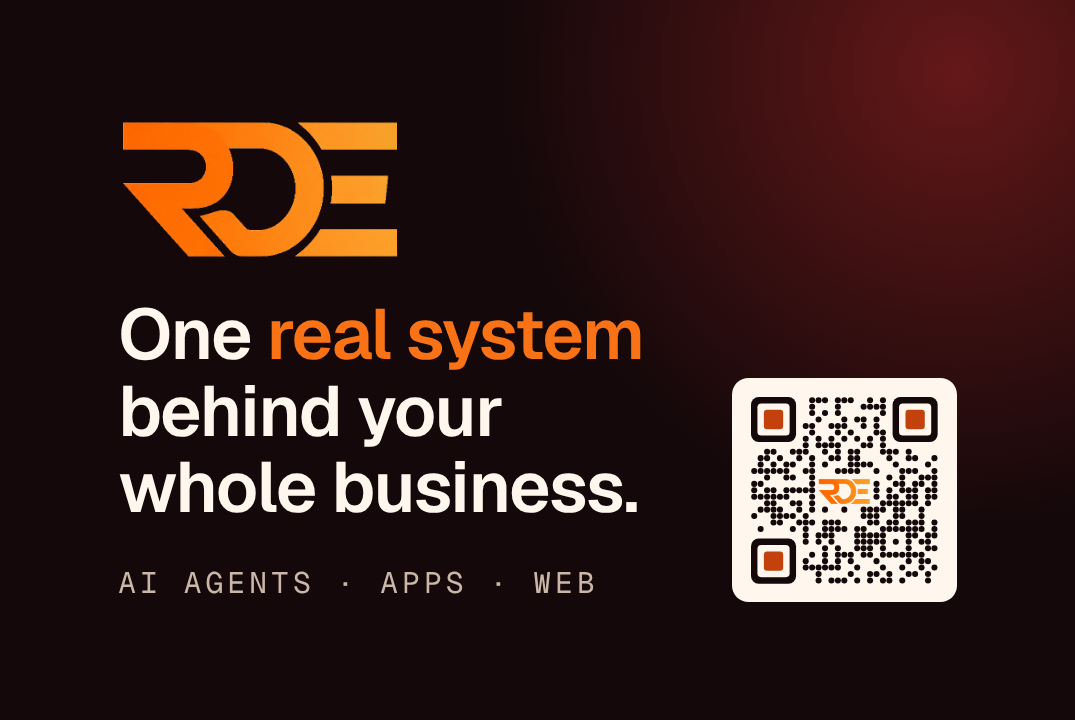
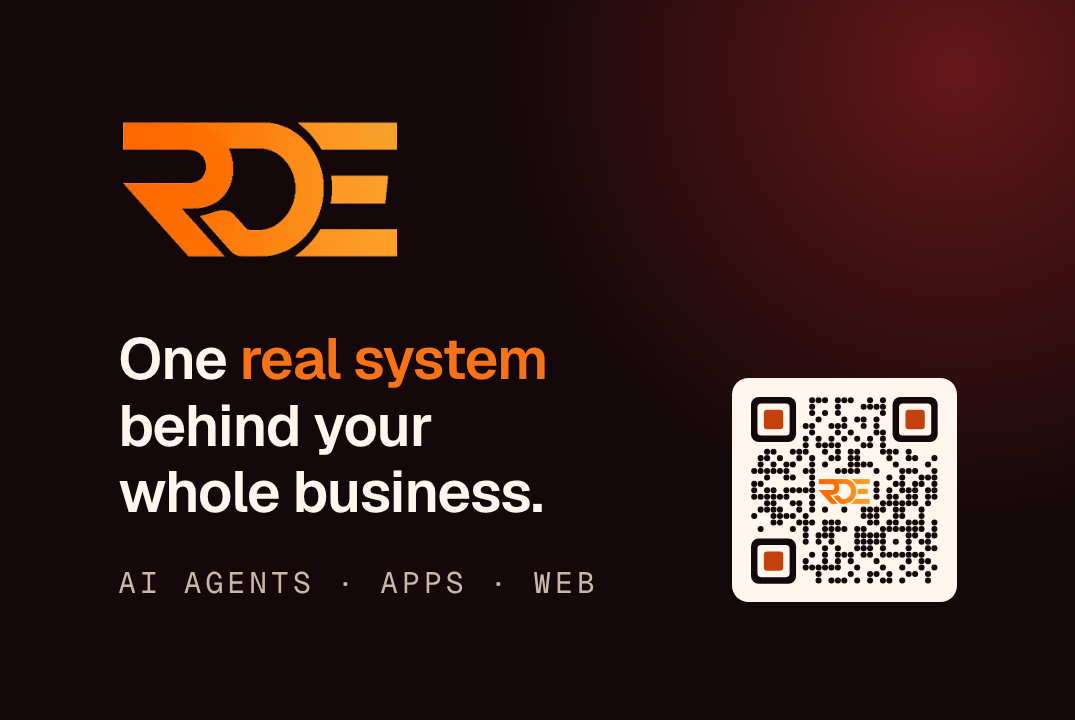
Business card: medium-size headline for better balance
Claude-Session: https://claude.ai/code/session_01B6fozEJdCLAGrKoXUG1e35

Changed region(s): [[0.0921, 0.4278, 0.614, 0.7333]]

diff --git a/business-card/_back-bleed.html b/business-card/_back-bleed.html
@@ -14,7 +14,7 @@ body{margin:0;background:var(--bg);color:var(--fg);font-family:var(--font)}
 .front::before{content:"";position:absolute;right:calc(-30 * var(--mm));top:calc(-34 * var(--mm));width:calc(80 * var(--mm));height:calc(80 * var(--mm));border-radius:50%;background:radial-gradient(circle,rgba(127,29,29,.75),rgba(127,29,29,0) 68%)}
 .front .mark{position:absolute;left:calc(7 * var(--mm));top:calc(7 * var(--mm));height:calc(12 * var(--mm));width:auto;display:block}
 .front .tag{position:absolute;left:calc(7 * var(--mm));bottom:calc(7 * var(--mm));right:calc(7 * var(--mm))}
-.front h2{margin:0;font-weight:600;font-size:calc(6 * var(--mm));line-height:1.08;letter-spacing:-.02em;color:var(--paper)}
+.front h2{margin:0;font-weight:600;font-size:calc(4.9 * var(--mm));line-height:1.15;letter-spacing:-.02em;color:var(--paper)}
 .front h2 em{font-style:normal;color:var(--orange)}
 .front .mono{margin-top:calc(3.2 * var(--mm));font-family:var(--mono);font-size:calc(2.5 * var(--mm));letter-spacing:.14em;text-transform:uppercase;color:#cbb7a8}
 .front .qr{position:absolute;right:calc(7 * var(--mm));bottom:calc(7 * var(--mm));width:calc(19 * var(--mm));height:calc(19 * var(--mm));background:var(--paper);padding:calc(1.6 * var(--mm));border-radius:calc(1.4 * var(--mm))}.front .qr svg{display:block;width:100%;height:100%}

diff --git a/business-card/_back.html b/business-card/_back.html
@@ -14,7 +14,7 @@ body{margin:0;background:var(--bg);color:var(--fg);font-family:var(--font)}
 .front::before{content:"";position:absolute;right:calc(-30 * var(--mm));top:calc(-34 * var(--mm));width:calc(80 * var(--mm));height:calc(80 * var(--mm));border-radius:50%;background:radial-gradient(circle,rgba(127,29,29,.75),rgba(127,29,29,0) 68%)}
 .front .mark{position:absolute;left:calc(7 * var(--mm));top:calc(7 * var(--mm));height:calc(12 * var(--mm));width:auto;display:block}
 .front .tag{position:absolute;left:calc(7 * var(--mm));bottom:calc(7 * var(--mm));right:calc(7 * var(--mm))}
-.front h2{margin:0;font-weight:600;font-size:calc(6 * var(--mm));line-height:1.08;letter-spacing:-.02em;color:var(--paper)}
+.front h2{margin:0;font-weight:600;font-size:calc(4.9 * var(--mm));line-height:1.15;letter-spacing:-.02em;color:var(--paper)}
 .front h2 em{font-style:normal;color:var(--orange)}
 .front .mono{margin-top:calc(3.2 * var(--mm));font-family:var(--mono);font-size:calc(2.5 * var(--mm));letter-spacing:.14em;text-transform:uppercase;color:#cbb7a8}
 .front .qr{position:absolute;right:calc(7 * var(--mm));bottom:calc(7 * var(--mm));width:calc(19 * var(--mm));height:calc(19 * var(--mm));background:var(--paper);padding:calc(1.6 * var(--mm));border-radius:calc(1.4 * var(--mm))}.front .qr svg{display:block;width:100%;height:100%}

diff --git a/business-card/_front-bleed.html b/business-card/_front-bleed.html
@@ -14,7 +14,7 @@ body{margin:0;background:var(--bg);color:var(--fg);font-family:var(--font)}
 .front::before{content:"";position:absolute;right:calc(-30 * var(--mm));top:calc(-34 * var(--mm));width:calc(80 * var(--mm));height:calc(80 * var(--mm));border-radius:50%;background:radial-gradient(circle,rgba(127,29,29,.75),rgba(127,29,29,0) 68%)}
 .front .mark{position:absolute;left:calc(7 * var(--mm));top:calc(7 * var(--mm));height:calc(12 * var(--mm));width:auto;display:block}
 .front .tag{position:absolute;left:calc(7 * var(--mm));bottom:calc(7 * var(--mm));right:calc(7 * var(--mm))}
-.front h2{margin:0;font-weight:600;font-size:calc(6 * var(--mm));line-height:1.08;letter-spacing:-.02em;color:var(--paper)}
+.front h2{margin:0;font-weight:600;font-size:calc(4.9 * var(--mm));line-height:1.15;letter-spacing:-.02em;color:var(--paper)}
 .front h2 em{font-style:normal;color:var(--orange)}
 .front .mono{margin-top:calc(3.2 * var(--mm));font-family:var(--mono);font-size:calc(2.5 * var(--mm));letter-spacing:.14em;text-transform:uppercase;color:#cbb7a8}
 .front .qr{position:absolute;right:calc(7 * var(--mm));bottom:calc(7 * var(--mm));width:calc(19 * var(--mm));height:calc(19 * var(--mm));background:var(--paper);padding:calc(1.6 * var(--mm));border-radius:calc(1.4 * var(--mm))}.front .qr svg{display:block;width:100%;height:100%}

diff --git a/business-card/_front.html b/business-card/_front.html
@@ -14,7 +14,7 @@ body{margin:0;background:var(--bg);color:var(--fg);font-family:var(--font)}
 .front::before{content:"";position:absolute;right:calc(-30 * var(--mm));top:calc(-34 * var(--mm));width:calc(80 * var(--mm));height:calc(80 * var(--mm));border-radius:50%;background:radial-gradient(circle,rgba(127,29,29,.75),rgba(127,29,29,0) 68%)}
 .front .mark{position:absolute;left:calc(7 * var(--mm));top:calc(7 * var(--mm));height:calc(12 * var(--mm));width:auto;display:block}
 .front .tag{position:absolute;left:calc(7 * var(--mm));bottom:calc(7 * var(--mm));right:calc(7 * var(--mm))}
-.front h2{margin:0;font-weight:600;font-size:calc(6 * var(--mm));line-height:1.08;letter-spacing:-.02em;color:var(--paper)}
+.front h2{margin:0;font-weight:600;font-size:calc(4.9 * var(--mm));line-height:1.15;letter-spacing:-.02em;color:var(--paper)}
 .front h2 em{font-style:normal;color:var(--orange)}
 .front .mono{margin-top:calc(3.2 * var(--mm));font-family:var(--mono);font-size:calc(2.5 * var(--mm));letter-spacing:.14em;text-transform:uppercase;color:#cbb7a8}
 .front .qr{position:absolute;right:calc(7 * var(--mm));bottom:calc(7 * var(--mm));width:calc(19 * var(--mm));height:calc(19 * var(--mm));background:var(--paper);padding:calc(1.6 * var(--mm));border-radius:calc(1.4 * var(--mm))}.front .qr svg{display:block;width:100%;height:100%}

diff --git a/business-card/preview.html b/business-card/preview.html
@@ -14,7 +14,7 @@ body{margin:0;background:var(--bg);color:var(--fg);font-family:var(--font)}
 .front::before{content:"";position:absolute;right:calc(-30 * var(--mm));top:calc(-34 * var(--mm));width:calc(80 * var(--mm));height:calc(80 * var(--mm));border-radius:50%;background:radial-gradient(circle,rgba(127,29,29,.75),rgba(127,29,29,0) 68%)}
 .front .mark{position:absolute;left:calc(7 * var(--mm));top:calc(7 * var(--mm));height:calc(12 * var(--mm));width:auto;display:block}
 .front .tag{position:absolute;left:calc(7 * var(--mm));bottom:calc(7 * var(--mm));right:calc(7 * var(--mm))}
-.front h2{margin:0;font-weight:600;font-size:calc(6 * var(--mm));line-height:1.08;letter-spacing:-.02em;color:var(--paper)}
+.front h2{margin:0;font-weight:600;font-size:calc(4.9 * var(--mm));line-height:1.15;letter-spacing:-.02em;color:var(--paper)}
 .front h2 em{font-style:normal;color:var(--orange)}
 .front .mono{margin-top:calc(3.2 * var(--mm));font-family:var(--mono);font-size:calc(2.5 * var(--mm));letter-spacing:.14em;text-transform:uppercase;color:#cbb7a8}
 .front .qr{position:absolute;right:calc(7 * var(--mm));bottom:calc(7 * var(--mm));width:calc(19 * var(--mm));height:calc(19 * var(--mm));background:var(--paper);padding:calc(1.6 * var(--mm));border-radius:calc(1.4 * var(--mm))}.front .qr svg{display:block;width:100%;height:100%}

diff --git a/business-card/build.py b/business-card/build.py
@@ -40,7 +40,7 @@ body{margin:0;background:var(--bg);color:var(--fg);font-family:var(--font)}
 .front::before{content:"";position:absolute;right:calc(-30 * var(--mm));top:calc(-34 * var(--mm));width:calc(80 * var(--mm));height:calc(80 * var(--mm));border-radius:50%;background:radial-gradient(circle,rgba(127,29,29,.75),rgba(127,29,29,0) 68%)}
 .front .mark{position:absolute;left:calc(7 * var(--mm));top:calc(7 * var(--mm));height:calc(12 * var(--mm));width:auto;display:block}
 .front .tag{position:absolute;left:calc(7 * var(--mm));bottom:calc(7 * var(--mm));right:calc(7 * var(--mm))}
-.front h2{margin:0;font-weight:600;font-size:calc(6 * var(--mm));line-height:1.08;letter-spacing:-.02em;color:var(--paper)}
+.front h2{margin:0;font-weight:600;font-size:calc(4.9 * var(--mm));line-height:1.15;letter-spacing:-.02em;color:var(--paper)}
 .front h2 em{font-style:normal;color:var(--orange)}
 .front .mono{margin-top:calc(3.2 * var(--mm));font-family:var(--mono);font-size:calc(2.5 * var(--mm));letter-spacing:.14em;text-transform:uppercase;color:#cbb7a8}
 .front .qr{position:absolute;right:calc(7 * var(--mm));bottom:calc(7 * var(--mm));width:calc(19 * var(--mm));height:calc(19 * var(--mm));background:var(--paper);padding:calc(1.6 * var(--mm));border-radius:calc(1.4 * var(--mm))}.front .qr svg{display:block;width:100%;height:100%}
